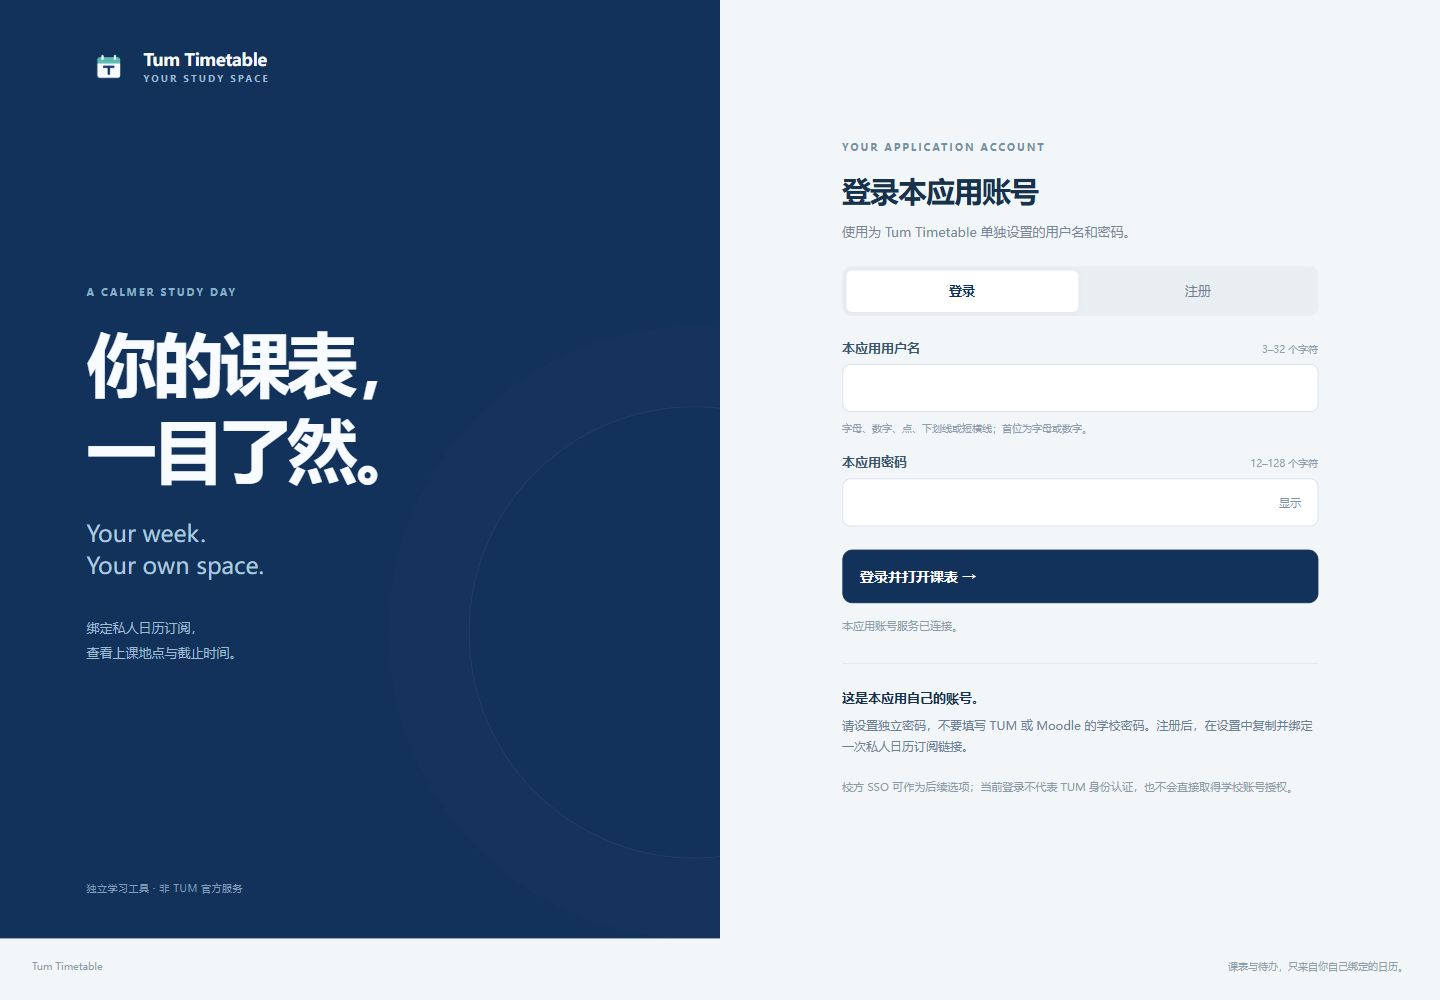
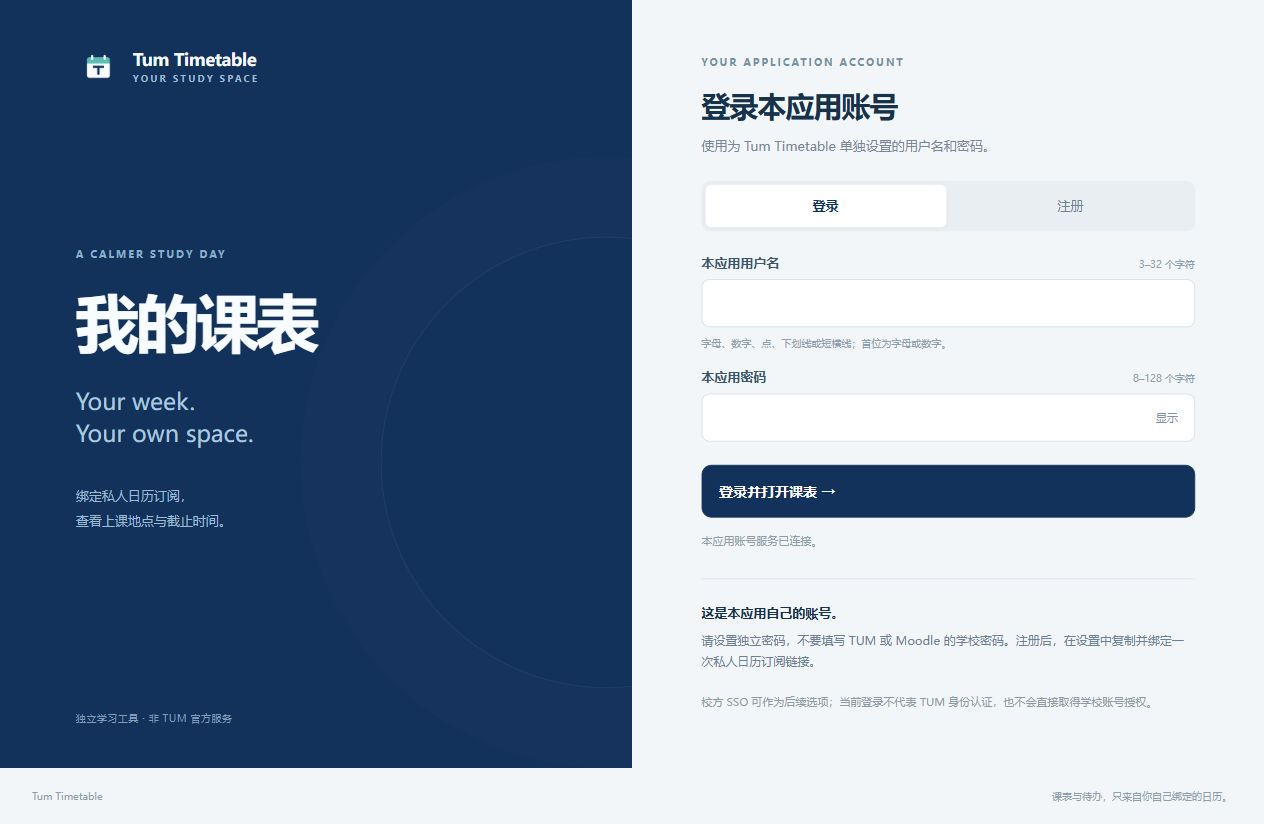
Simplify login heading and allow eight-character application passwords

diff --git a/public/index.html b/public/index.html
@@ -3,13 +3,13 @@
 <head>
   <meta charset="utf-8"><meta name="viewport" content="width=device-width,initial-scale=1"><meta name="theme-color" content="#07315a"><meta name="referrer" content="no-referrer">
   <meta name="description" content="Tum Timetable：使用本应用账号管理自己的课程日历与截止提醒。"><title>登录 · Tum Timetable</title>
-  <link rel="manifest" href="/manifest.webmanifest"><link rel="icon" href="./icons/icon.svg" type="image/svg+xml"><link rel="stylesheet" href="./auth.css"><script type="module" src="./auth.js"></script>
+  <link rel="manifest" href="/manifest.webmanifest"><link rel="icon" href="./icons/icon.svg" type="image/svg+xml"><link rel="stylesheet" href="./auth.css"><script type="module" src="./auth.js?v=20261114-2"></script>
 </head>
 <body>
   <main class="auth-layout">
     <section class="auth-intro" aria-label="Tum Timetable">
       <a class="auth-brand" href="./index.html"><img src="./icons/icon-192.png" alt=""><span>Tum Timetable<small>YOUR STUDY SPACE</small></span></a>
-      <div class="intro-copy"><p class="auth-eyebrow">A CALMER STUDY DAY</p><h1>你的课表，<br>一目了然。</h1><p class="intro-en" lang="en">Your week.<br>Your own space.</p><p class="intro-note">绑定私人日历订阅，<br>查看上课地点与截止时间。</p></div>
+      <div class="intro-copy"><p class="auth-eyebrow">A CALMER STUDY DAY</p><h1>我的课表</h1><p class="intro-en" lang="en">Your week.<br>Your own space.</p><p class="intro-note">绑定私人日历订阅，<br>查看上课地点与截止时间。</p></div>
       <p class="independent-note">独立学习工具 · 非 TUM 官方服务</p>
     </section>
     <section class="auth-card" aria-labelledby="signin-title">
@@ -18,7 +18,7 @@
       <form method="post" id="local-auth-form" class="local-auth-form" novalidate>
         <label for="app-username">本应用用户名<span>3–32 个字符</span></label><input id="app-username" name="username" autocomplete="username" minlength="3" maxlength="32" aria-describedby="username-format" required autocapitalize="none" spellcheck="false">
         <p id="username-format" class="username-format">字母、数字、点、下划线或短横线；首位为字母或数字。</p>
-        <label for="app-password">本应用密码<span>12–128 个字符</span></label><div class="password-field"><input id="app-password" name="password" type="password" autocomplete="current-password" minlength="12" maxlength="256" required><button id="toggle-password" type="button" aria-pressed="false" aria-label="显示本应用密码">显示</button></div>
+        <label for="app-password">本应用密码<span>8–128 个字符</span></label><div class="password-field"><input id="app-password" name="password" type="password" autocomplete="current-password" minlength="8" maxlength="256" required><button id="toggle-password" type="button" aria-pressed="false" aria-label="显示本应用密码">显示</button></div>
         <p id="auth-error" class="auth-error" role="alert" hidden></p><button type="submit" id="submit-auth" class="signin-button" disabled>登录并打开课表 <span aria-hidden="true">→</span></button>
       </form>
       <p id="status-text" class="local-service-state" role="status" aria-live="polite">正在连接本应用账号服务…</p><button type="button" id="check-auth" class="check-button" hidden>重新连接</button>

diff --git a/public/login.html b/public/login.html
@@ -3,13 +3,13 @@
 <head>
   <meta charset="utf-8"><meta name="viewport" content="width=device-width,initial-scale=1"><meta name="theme-color" content="#07315a"><meta name="referrer" content="no-referrer">
   <meta name="description" content="Tum Timetable：使用本应用账号管理自己的课程日历与截止提醒。"><title>登录 · Tum Timetable</title>
-  <link rel="manifest" href="/manifest.webmanifest"><link rel="icon" href="./icons/icon.svg" type="image/svg+xml"><link rel="stylesheet" href="./auth.css"><script type="module" src="./auth.js"></script>
+  <link rel="manifest" href="/manifest.webmanifest"><link rel="icon" href="./icons/icon.svg" type="image/svg+xml"><link rel="stylesheet" href="./auth.css"><script type="module" src="./auth.js?v=20261114-2"></script>
 </head>
 <body>
   <main class="auth-layout">
     <section class="auth-intro" aria-label="Tum Timetable">
       <a class="auth-brand" href="./index.html"><img src="./icons/icon-192.png" alt=""><span>Tum Timetable<small>YOUR STUDY SPACE</small></span></a>
-      <div class="intro-copy"><p class="auth-eyebrow">A CALMER STUDY DAY</p><h1>你的课表，<br>一目了然。</h1><p class="intro-en" lang="en">Your week.<br>Your own space.</p><p class="intro-note">绑定私人日历订阅，<br>查看上课地点与截止时间。</p></div>
+      <div class="intro-copy"><p class="auth-eyebrow">A CALMER STUDY DAY</p><h1>我的课表</h1><p class="intro-en" lang="en">Your week.<br>Your own space.</p><p class="intro-note">绑定私人日历订阅，<br>查看上课地点与截止时间。</p></div>
       <p class="independent-note">独立学习工具 · 非 TUM 官方服务</p>
     </section>
     <section class="auth-card" aria-labelledby="signin-title">
@@ -18,7 +18,7 @@
       <form method="post" id="local-auth-form" class="local-auth-form" novalidate>
         <label for="app-username">本应用用户名<span>3–32 个字符</span></label><input id="app-username" name="username" autocomplete="username" minlength="3" maxlength="32" aria-describedby="username-format" required autocapitalize="none" spellcheck="false">
         <p id="username-format" class="username-format">字母、数字、点、下划线或短横线；首位为字母或数字。</p>
-        <label for="app-password">本应用密码<span>12–128 个字符</span></label><div class="password-field"><input id="app-password" name="password" type="password" autocomplete="current-password" minlength="12" maxlength="256" required><button id="toggle-password" type="button" aria-pressed="false" aria-label="显示本应用密码">显示</button></div>
+        <label for="app-password">本应用密码<span>8–128 个字符</span></label><div class="password-field"><input id="app-password" name="password" type="password" autocomplete="current-password" minlength="8" maxlength="256" required><button id="toggle-password" type="button" aria-pressed="false" aria-label="显示本应用密码">显示</button></div>
         <p id="auth-error" class="auth-error" role="alert" hidden></p><button type="submit" id="submit-auth" class="signin-button" disabled>登录并打开课表 <span aria-hidden="true">→</span></button>
       </form>
       <p id="status-text" class="local-service-state" role="status" aria-live="polite">正在连接本应用账号服务…</p><button type="button" id="check-auth" class="check-button" hidden>重新连接</button>

diff --git a/public/auth.js b/public/auth.js
@@ -1,10 +1,10 @@
 export class LocalAuthError extends Error {
   constructor(code='unavailable',status=0){super(code);this.name='LocalAuthError';this.code=code;this.status=status;}
 }
-const VALIDATION_MESSAGES={invalid_username:'用户名须为 3–32 位字母、数字、点、下划线或短横线，并以字母或数字开头。',invalid_password:'本应用密码需要 12–128 个字符。'};
+const VALIDATION_MESSAGES={invalid_username:'用户名须为 3–32 位字母、数字、点、下划线或短横线，并以字母或数字开头。',invalid_password:'本应用密码需要 8–128 个字符。'};
 function credentialsErrorCode(username,password){
   if(typeof username!=='string'||!/^[a-z0-9][a-z0-9._-]{2,31}$/.test(username.trim().toLowerCase()))return 'invalid_username';
-  if(typeof password!=='string'||Array.from(password).length<12||Array.from(password).length>128)return 'invalid_password';
+  if(typeof password!=='string'||Array.from(password).length<8||Array.from(password).length>128)return 'invalid_password';
   return '';
 }
 export function validateCredentials(username,password){return VALIDATION_MESSAGES[credentialsErrorCode(username,password)]||'';}

diff --git a/README.md b/README.md
@@ -10,7 +10,7 @@ Personal application accounts with private TUMonline and Moodle calendar subscri
 2. In **Settings**, bind your private calendar links: **TUMonline → Calendar → Publish**, and **Moodle → Calendar → Export calendar → Get calendar URL**. Moodle export availability and date ranges depend on your account.
 3. Paste each URL once and select **Bind and sync**. **Timetable** shows weekly times and locations; **Deadlines** shows the next five Moodle calendar activities. Accounts only see their own feeds.
 
-Usernames are 3–32 ASCII letters/digits/dots/underscores/hyphens, starting with a letter or digit, and are normalized to lowercase. Application passwords are 12–128 Unicode characters and are not trimmed.
+Usernames are 3–32 ASCII letters/digits/dots/underscores/hyphens, starting with a letter or digit, and are normalized to lowercase. Application passwords are 8–128 Unicode characters and are not trimmed; uppercase letters and symbols are optional.
 
 The app checks subscriptions on opening and every 15 minutes in the foreground; it checks stale data when returning to the foreground. **Closing it stops checks: there is no closed-app background polling.** Use Sync for an immediate refresh. Settings show the last successful sync and generic error state per source.
 

diff --git a/docs/usage.zh-CN.md b/docs/usage.zh-CN.md
@@ -4,7 +4,7 @@
 
 ## 三步开始
 
-1. 注册并登录。用户名为 3–32 位英文字母、数字、点、下划线或短横线，首位为字母或数字，保存时转小写；密码为 12–128 个字符，不去除首尾空白。
+1. 注册并登录。用户名为 3–32 位英文字母、数字、点、下划线或短横线，首位为字母或数字，保存时转小写；密码为 8–128 个字符，不要求大写或特殊符号，不去除首尾空白。
 2. 在“设置”绑定订阅：TUMonline 进入 **Calendar → Publish**，复制私人 URL；Moodle 进入 **Calendar → Export calendar → Get calendar URL**。是否开放导出及可选范围，以你的实际账号为准。
 3. 各粘贴一次，点击“绑定并同步”。“课表”按德国时间显示每周安排和地点；“待办”显示最近 5 条 Moodle 日历活动。“同步日历”可立即检查更新。
 

diff --git a/docs/auth-local.md b/docs/auth-local.md
@@ -28,7 +28,7 @@ const auth=createLocalAuth({store,expectedOrigin:env.APP_ORIGIN});
 
 ## API
 
-注册和登录的 JSON 为 `{username,password}`。用户名先去两端空白、转换 ASCII 小写，只接受 3–32 位 `[a-z0-9._-]`，首字符须为字母或数字；密码不去空白，长度为 12–128 个 Unicode 字符。学校密码不能用于本应用。当前不提供邮件确认、找回密码或官方身份认证。
+注册和登录的 JSON 为 `{username,password}`。用户名先去两端空白、转换 ASCII 小写，只接受 3–32 位 `[a-z0-9._-]`，首字符须为字母或数字；密码不去空白，长度为 8–128 个 Unicode 字符，不要求大写或特殊符号。学校密码不能用于本应用。当前不提供邮件确认、找回密码或官方身份认证。
 
 | API | 成功响应 |
 | --- | --- |
